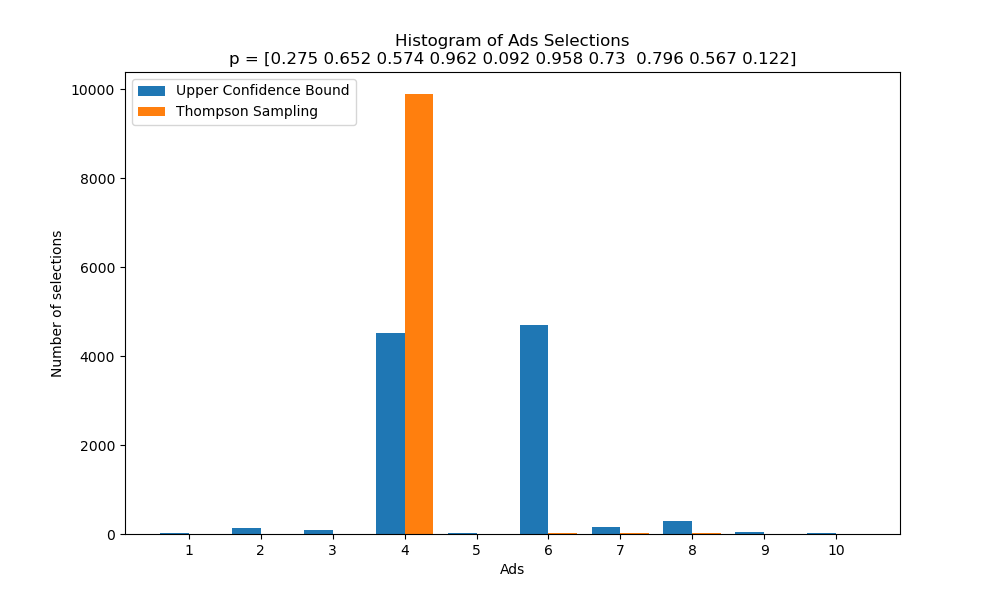
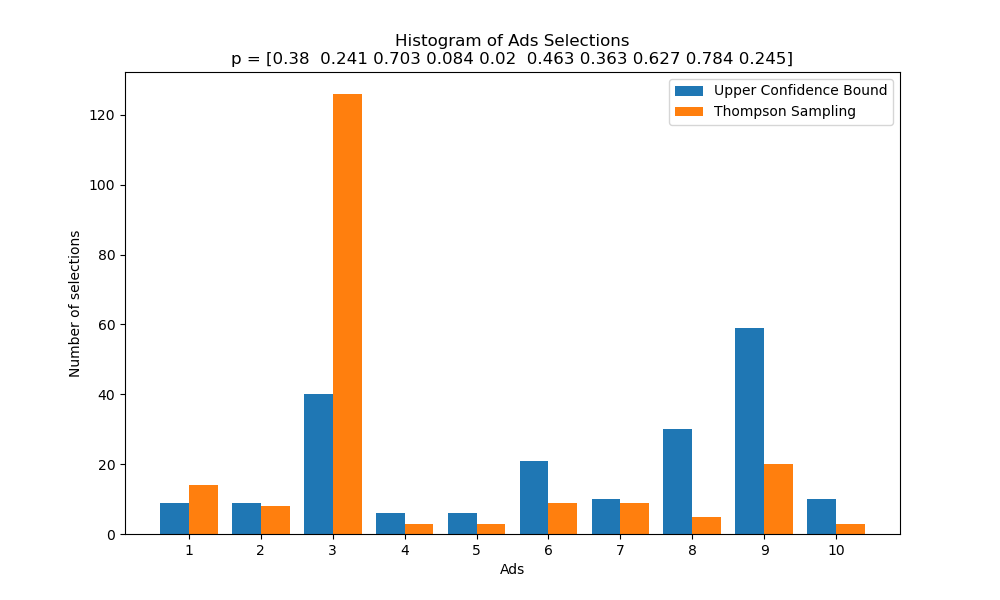
ADDED util: plot_hist_sum & plot_hist_count

diff --git a/machine_learning/reinforcement_learning/comparison_mab_algorithms.py b/machine_learning/reinforcement_learning/comparison_mab_algorithms.py
@@ -17,6 +17,7 @@ import matplotlib.pyplot as plt
 from algorithms_mab import ucb, ts
 import random
 import numpy as np
+from utils import plot_hist_sum, plot_hist_count
 
 d = 10  # the problem dimensionality (number of arms = ads).
 
@@ -36,31 +37,19 @@ ads_selected_ts = ts(dist_p, d, N)
 
 # plot Histogram:
 
-# bins = np.linspace(1, d, d)
-bins = np.arange(d) + 1
+mab_algorithms = ['Upper Confidence Bound', 'Thompson Sampling']
+data = np.array([ads_selected_ucb, ads_selected_ts])
 
-fig, ax = plt.subplots(figsize=(10, 6))
+xlabel = 'Ads'
+ylabel = 'Number of selections'
+title = f'Histogram of Ads Selections\np = {dist_p}'
+# bars_type = 'adjacent'
+bars_type = 'overlapping'
 
 # # Histogram of count (ads_selected):
-# # Option 1 (adjacent bars):
-# ax.hist([ads_selected_ucb, ads_selected_ts], bins,
-#         label=['Upper Confidence Bound', 'Thompson Sampling'])
-# # Option 2 (overlapping\superimposed bars):
-# ax.hist(ads_selected_ucb, bins, alpha=0.5, label='Upper Confidence Bound')
-# ax.hist(ads_selected_ts, bins, alpha=0.5, label='Thompson Sampling')
-
+# plot_hist_count(data, mab_algorithms, ylabel, xlabel, title, adjacent_bars=bars_type == 'adjacent')
 # Histogram of sum (n_selections) = Bars:
-# Option 1 (adjacent bars):
-ax.bar(bins - 0.2, ads_selected_ucb, width=0.4, align='center', label='Upper Confidence Bound')
-ax.bar(bins + 0.2, ads_selected_ts, width=0.4, align='center', label='Thompson Sampling')
-# # Option 2 (overlapping\superimposed bars):
-# ax.bar(bins, ads_selected_ucb, alpha=0.75, width=0.8, align='center', label='Upper Confidence Bound')
-# ax.bar(bins, ads_selected_ts, alpha=0.75, width=0.8, align='center', label='Thompson Sampling')
+plot_hist_sum(data, mab_algorithms, ylabel, xlabel, title, adjacent_bars=bars_type == 'adjacent')
 
-ax.legend(loc='upper left')
-ax.set_xlabel('Ads')
-ax.set_ylabel('Number of selections')
-ax.set_xticks(bins)
-ax.set_title(f'Histogram of Ads Selections\np = {dist_p}')
-
+plt.savefig(f'results/MAB_algo_{bars_type}.png')
 plt.show()

diff --git a/utils.py b/utils.py
@@ -1,0 +1,58 @@
+import numpy as np
+import matplotlib.pyplot as plt
+
+
+def plot_hist_sum(data, r_labels, ylabel, xlabel, title, x_tick_labels=None, adjacent_bars=True):
+    """
+    plots Histogram of sum
+    plots multiple bars
+    """
+    n_rows = len(r_labels)
+
+    total_bars_width = 0.8
+    bar_width = total_bars_width / n_rows
+    # bins = np.linspace(1, d, d)
+    bins = np.arange(data.shape[1]) + 1  # d = data.shape[1]
+
+    fig, ax = plt.subplots(figsize=(10, 6))
+    for i in range(n_rows):
+        if adjacent_bars:
+            ax.bar(x=bins + (i * bar_width) - total_bars_width / 2 + bar_width / 2,
+                   height=data[i], width=bar_width, align='center', label=r_labels[i])
+        else:  # overlapping\superimposed bars
+            ax.bar(x=bins, height=data[i], alpha=0.75, width=total_bars_width, align='center', label=r_labels[i])
+
+    ax.legend(loc='best')
+    ax.set_ylabel(ylabel)
+    ax.set_xlabel(xlabel)
+    ax.set_xticks(bins)
+    if x_tick_labels is not None:
+        ax.set_xticklabels(x_tick_labels)
+    ax.set_title(title)
+
+
+def plot_hist_count(data, r_labels, ylabel, xlabel, title, x_tick_labels=None, adjacent_bars=True):
+    """
+    plots Histogram of count
+    """
+    n_rows = len(r_labels)
+
+    total_bars_width = 0.8
+    bar_width = total_bars_width / n_rows
+    # bins = np.linspace(1, d, d)
+    bins = np.arange(data.shape[1]) + 1  # d = data.shape[1]
+
+    fig, ax = plt.subplots(figsize=(10, 6))
+    if adjacent_bars:
+        ax.hist(x=data, bins=bins, label=r_labels)
+    else:  # overlapping\superimposed bars
+        for i in range(n_rows):  # alpha=0.5
+            ax.hist(x=data[i], bins=bins, alpha=0.5, label=r_labels[i])
+
+    ax.legend(loc='best')
+    ax.set_ylabel(ylabel)
+    ax.set_xlabel(xlabel)
+    ax.set_xticks(bins)
+    if x_tick_labels is not None:
+        ax.set_xticklabels(x_tick_labels)
+    ax.set_title(title)
